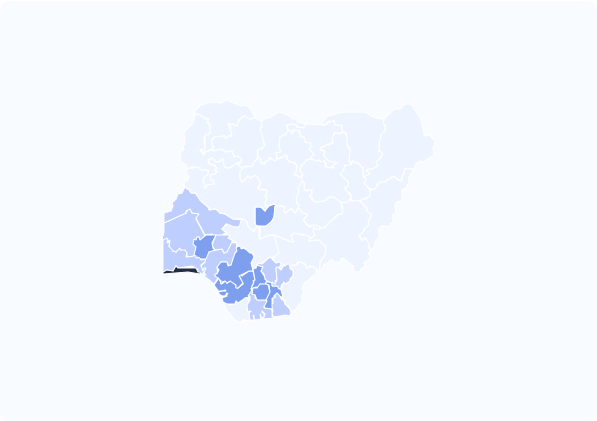
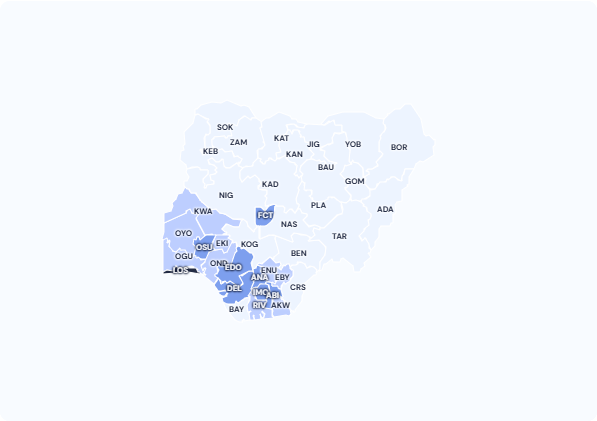
Add clear labeled states to Nigeria SDG map

diff --git a/projects/nigeria-sdg-state-scorecard/index.html b/projects/nigeria-sdg-state-scorecard/index.html
@@ -32,14 +32,16 @@ select{background:#fff;color:var(--fg);border:1px solid var(--line);border-radiu
 .cv{position:relative}ul{padding-left:18px;margin:8px 0 0}li{margin-bottom:9px}
 .tw{overflow-x:auto}
 .map-layout{display:grid;grid-template-columns:1.55fr .45fr;gap:16px;align-items:stretch}
-.map-wrap{min-height:520px;border-radius:10px;background:linear-gradient(145deg,#f8fbff,#eef3ff);overflow:hidden;position:relative}
+.map-wrap{min-height:560px;border-radius:10px;background:linear-gradient(145deg,#f8fbff,#eef3ff);overflow:hidden;position:relative}
 .map-wrap #sdg-map{background:#f8fbff}
 #sdg-map .leaflet-control-container{display:none}
 .sdg-tooltip{border:0;border-radius:7px;background:#111a35;color:white;padding:7px 9px;font:700 12px "DM Sans",sans-serif;box-shadow:0 8px 24px rgba(17,26,53,.18)}
 .sdg-tooltip::before{border-top-color:#111a35!important}
+.state-label{border:0!important;background:transparent!important;box-shadow:none!important;color:#111a35!important;text-shadow:0 1px 2px #fff,1px 0 2px #fff,-1px 0 2px #fff,0 -1px 2px #fff;font:800 8px "DM Sans",sans-serif!important;text-align:center;white-space:nowrap}
+.state-label-dark{color:#fff!important;text-shadow:0 1px 2px #111a35,1px 0 2px #111a35,-1px 0 2px #111a35,0 -1px 2px #111a35}
 .map-wrap::after{content:"Loading Nigeria map…";position:absolute;inset:0;display:grid;place-items:center;color:var(--mut);font-size:12px;pointer-events:none}
 .map-wrap.loaded::after{display:none}
-#sdg-map{width:100%;height:520px}
+#sdg-map{width:100%;height:560px}
 .map-summary{display:flex;flex-direction:column;justify-content:center;border:1px solid var(--line);border-radius:10px;padding:20px}
 .map-summary span{color:var(--mut);font-size:10px;font-weight:800;text-transform:uppercase;letter-spacing:1px}
 .map-summary strong{margin:8px 0 4px;font:800 38px "Manrope",sans-serif;letter-spacing:-2px;color:var(--acc)}
@@ -124,6 +126,14 @@ async function renderMap(k,u,g,ranked){
     return selected;
   };
   const normalize=name=>name==='Abuja Federal Capital Territory'?'FCT':name;
+  const compactLabel=name=>({
+    'Abia':'ABI','Adamawa':'ADA','Akwa Ibom':'AKW','Anambra':'ANA','Bauchi':'BAU','Bayelsa':'BAY',
+    'Benue':'BEN','Borno':'BOR','Cross River':'CRS','Delta':'DEL','Ebonyi':'EBY','Edo':'EDO',
+    'Ekiti':'EKI','Enugu':'ENU','FCT':'FCT','Gombe':'GOM','Imo':'IMO','Jigawa':'JIG',
+    'Kaduna':'KAD','Kano':'KAN','Katsina':'KAT','Kebbi':'KEB','Kogi':'KOG','Kwara':'KWA',
+    'Lagos':'LOS','Nasarawa':'NAS','Niger':'NIG','Ogun':'OGU','Ondo':'OND','Osun':'OSU',
+    'Oyo':'OYO','Plateau':'PLA','Rivers':'RIV','Sokoto':'SOK','Taraba':'TAR','Yobe':'YOB','Zamfara':'ZAM'
+  })[name]||name;
   const layer=L.geoJSON(geo,{style(feature){
     const name=normalize(feature.properties.shapeName);
     const row=dataByName.get(name);
@@ -132,6 +142,16 @@ async function renderMap(k,u,g,ranked){
     const name=normalize(feature.properties.shapeName);
     const row=dataByName.get(name);
     polygon.bindTooltip(row?`${name}: ${row.v[k]} ${u}`:`${name}: No data`,{sticky:true,direction:'top',className:'sdg-tooltip'});
+    const value=row?row.v[k]:null;
+    const isDark=value!=null&&((value-low)/(high-low||1))>.62;
+    const shortName=compactLabel(name);
+    const label=L.tooltip({
+      permanent:true,
+      direction:'center',
+      className:`state-label${isDark?' state-label-dark':''}`,
+      interactive:false
+    }).setContent(shortName).setLatLng(polygon.getBounds().getCenter());
+    label.addTo(map);
     polygon.on({mouseover(e){e.target.setStyle({weight:2,color:'#2457f5',fillOpacity:1});},mouseout(e){layer.resetStyle(e.target);}});
   }}).addTo(map);
   map.fitBounds(layer.getBounds(),{padding:[18,18]});
